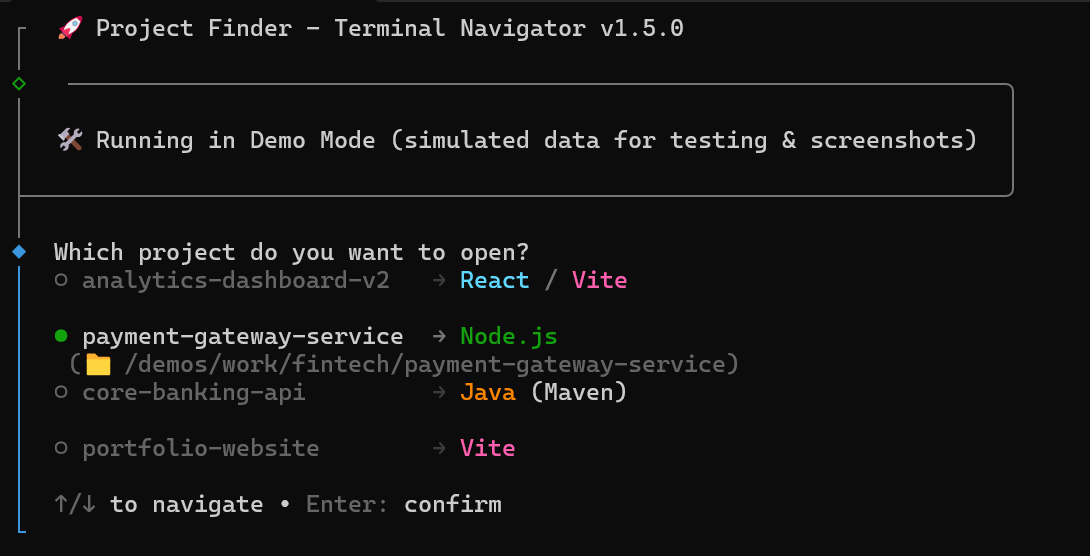
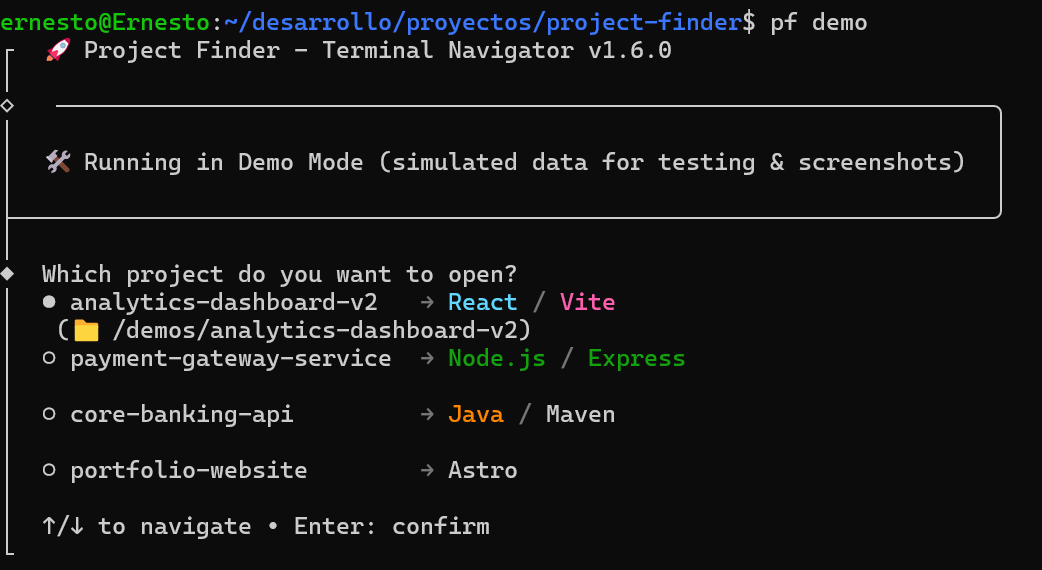
feat(shell): implement cross-platform navigation wrappers & I/O stream proxy (#5)
* chore(release): bump version to 1.6.0 and refactor package metadata

- Bump package version from 1.4.0 to 1.6.0.
- Rename primary binary executable to 'pf-cli' to avoid wrapper collisions.
- Remove redundant self-referencing dependency in package.json.
- Include 'bin' directory in distribution files array.

* refactor(ui): isolate I/O streams using stdout redirection proxy

- Create redirectUiToStderr and emitData helpers in src/ui/output.js to decouple visual rendering from stdout.
- Monkey-patch process.stdout.write at main entry point to divert interactive prompt graphics to stderr.
- Ensure raw project paths are emitted strictly via unpolluted stdout stream for parent shell capture.
- Export I/O stream utilities from src/ui/index.js barrel file.

* feat(shell): implement cross-platform wrappers and dynamic script generator

- Create getShellWrapperScript in src/utils/shell.js to dynamically resolve binary execution.
- Export getShellWrapperScript utility from src/utils/index.js barrel file.
- Add static executable wrappers bin/pf.sh and bin/pf.ps1 for Bash/WSL/GitBash and PowerShell environments.
- Establish baseline architecture for shell-level directory navigation.

* feat(cli): add 'init' subcommand and streamline post-selection UX

- Implement 'init' subcommand handling in src/index.js to emit shell wrappers directly to stdout.
- Activate redirectUiToStderr to guarantee unpolluted data stream execution.
[…]

Changed region(s): [[0.0, 0.0, 1.0, 0.9784], [0.3992, 0.795, 0.4914, 0.8561]]

diff --git a/src/index.js b/src/index.js
@@ -5,9 +5,10 @@
  * @description Terminal tool to scan, identify, and copy navigation commands for projects.
  * @author ErnestoIngles
  */
-import { getAppVersion, copyToClipboard } from './utils/index.js';
+import { getAppVersion, copyToClipboard, getShellWrapperScript } from './utils/index.js';
 import { scanProjects, MOCK_PROJECTS } from './core/index.js';
-import { renderHeader, promptProjectSelection, renderSuccessMessage } from './ui/index.js';
+import { renderHeader, promptProjectSelection, renderSuccessMessage, 
+  redirectUiToStderr, emitData } from './ui/index.js';
 
 /**
  * Main execution flow of the CLI tool.
@@ -17,10 +18,21 @@ async function main() {
   const version = getAppVersion();
   const isDemo = process.argv.includes('demo') || process.argv.includes('--demo');
 
+  const args = process.argv.slice(2);
+
+  if (args[0] === 'init') {
+    const shellType = args[1] || 'bash';
+    const script = getShellWrapperScript(shellType);
+    
+    process.stdout.write(script);
+    process.exit(0);
+  }
+
+  redirectUiToStderr();
+
   renderHeader(version, isDemo);
 
   const projects = isDemo ? MOCK_PROJECTS : await scanProjects();
-
   const selectedPath = await promptProjectSelection(projects);
 
   if (!selectedPath) {
@@ -31,6 +43,9 @@ async function main() {
   copyToClipboard(command);
 
   renderSuccessMessage(selectedPath);
+
+  emitData(selectedPath);
+  process.exit(0);
 }
 
 main().catch((err) => {

diff --git a/src/utils/shell.js b/src/utils/shell.js
@@ -1,0 +1,41 @@
+import fs from 'node:fs';
+import path from 'node:path';
+import { fileURLToPath } from 'node:url';
+
+/**
+ * Generates the dynamic wrapper script by reading the binary name from package.json.
+ * @param {'bash' | 'powershell'} shellType - Target shell type.
+ * @returns {string} The executable code for the shell.
+ */
+export function getShellWrapperScript(shellType = 'bash') {
+  try {
+    const __filename = fileURLToPath(import.meta.url);
+    const __dirname = path.dirname(__filename);
+    const packagePath = path.resolve(__dirname, '../../package.json');
+
+    const pkg = JSON.parse(fs.readFileSync(packagePath, 'utf-8'));
+    const binName = Object.keys(pkg.bin || {})[0] || 'pf-cli';
+
+    if (shellType === 'powershell') {
+      return `
+function pf {
+    $target_dir = & ${binName} @args
+    if ($target_dir -and (Test-Path -Path $target_dir)) {
+        Set-Location -Path $target_dir
+    }
+}`.trim();
+    }
+
+    // Bash / Zsh / GitBash / WSL (Subshell limpio)
+    return `
+pf() {
+  local target_dir
+  target_dir=$(${binName} "$@")
+  if [ -n "$target_dir" ] && [ -d "$target_dir" ]; then
+    cd "$target_dir"
+  fi
+}`.trim();
+  } catch (error) {
+    return '';
+  }
+}

diff --git a/src/ui/output.js b/src/ui/output.js
@@ -1,0 +1,30 @@
+/**
+ * @file ui/output.js
+ * @description Manages process I/O stream redirection to isolate CLI visual UI from raw data output.
+ */
+
+let originalStdoutWrite = null;
+
+/**
+ * Redirects default stdout to stderr so interactive UI libraries (like @clack/prompts)
+ * render directly to screen without polluting shell data streams.
+ */
+export function redirectUiToStderr() {
+  originalStdoutWrite = process.stdout.write.bind(process.stdout);
+
+  process.stdout.write = (chunk, encoding, callback) => {
+    return process.stderr.write(chunk, encoding, callback);
+  };
+}
+
+/**
+ * Emits raw data strictly to the real, unpolluted process stdout stream.
+ * @param {string} data - Raw data payload to return to shell wrapper.
+ */
+export function emitData(data) {
+  if (originalStdoutWrite) {
+    originalStdoutWrite(data);
+  } else {
+    process.stdout.write(data);
+  }
+}

diff --git a/src/ui/cli.js b/src/ui/cli.js
@@ -60,5 +60,4 @@ export async function promptProjectSelection(projects) {
 export function renderSuccessMessage(selectedPath) {
   const displayPath = selectedPath.replace(HOME, '~');
   p.outro(`✅ Command ${COLORS.cyan}cd "${displayPath}"${COLORS.reset} copied!`);
-  console.log(`\n  👉 Just press Ctrl+V (or Right Click) and Enter to navigate.\n`);
 }

diff --git a/src/ui/index.js b/src/ui/index.js
@@ -1,2 +1,3 @@
 export { renderHeader, promptProjectSelection, renderSuccessMessage } from './cli.js';
 export { colorizeType, COLORS } from './formatter.js';
+export { redirectUiToStderr, emitData } from './output.js';

diff --git a/src/utils/index.js b/src/utils/index.js
@@ -1,2 +1,3 @@
 export { copyToClipboard } from './clipboard.js';
 export { getAppVersion } from './version.js';
+export { getShellWrapperScript } from './shell.js';

diff --git a/README.md b/README.md
@@ -2,7 +2,7 @@
 
 **Project Finder** is an interactive terminal utility designed to streamline developer workflows. It automatically scans your local directories, identifies project technology stacks, and enables instant project navigation directly from your terminal.
 
-![Version](https://img.shields.io/badge/version-1.5.0-cyan)
+![Version](https://img.shields.io/badge/version-1.6.0-cyan)
 ![Node.js](https://img.shields.io/badge/Node.js-%3E%3D18.0.0-green)
 ![License](https://img.shields.io/badge/license-MIT-blue)
 
@@ -10,18 +10,17 @@
 
 ## ✨ Features
 
-- 🔍 **Recursive Workspace Scanning:** Intelligent depth-first search up to 3 levels deep (`MAX_SCAN_DEPTH = 3`) to discover nested projects in subdirectories (e.g., `~/desarrollo/proyectos/work/clients/app`).
-- ⚡ **Performance & Boundary Protection:** Short-circuits directory traversal upon detecting project root markers (`package.json`, `pom.xml`) and defensively skips system, build, and source architecture folders (`node_modules`, `dist`, `src`, `components`).
+- ⚡ **Instant Shell Navigation:** Perform native, shell-level directory switches (`cd`) directly within your active terminal session via the `pf` wrapper.
+- 🔍 **Automated Workspace Scanning:** Recursively identifies valid development projects in your workspace (`~/desarrollo/proyectos`).
 - 🎨 **Dynamic Tech Stack Formatting:** High-fidelity visual identifiers for **React**, **Vite**, **Angular**, **Java**, and **Node.js** with ANSI colors and formatted stack separators.
-- 🧪 **Built-in Demo Mode:** Run simulated nested-project sweeps without accessing local filesystem data—ideal for testing and visual previews.
-- 📋 **Seamless Clipboard Integration:** Copies the navigation command (`cd "/path/to/project"`) straight to your system clipboard.
-- 🌐 **Cross-Platform:** Designed for native environments including **Windows (GitBash / PowerShell)**, **WSL2**, and **Linux**.
+- 🧪 **Built-in Demo Mode:** Run simulated project sweeps without accessing local filesystem data—ideal for testing and visual previews.
+- 📋 **Clipboard Backup:** Silently copies the target `cd` command to your system clipboard as a fallback.
+- 🌐 **Cross-Platform:** Full shell integration support for **Windows (PowerShell)**, **Git Bash**, **WSL2**, and **Linux (Bash/Zsh)**.
 
 ---
-
 ## 🛠 Built With
 
-- **[Node.js](https://nodejs.org/):** Core runtime (ES Modules & Async `fs.promises`).
+- **[Node.js](https://nodejs.org/):** Core runtime (ES Modules).
 - **[@clack/prompts](https://www.npmjs.com/package/@clack/prompts):** Interactive CLI prompt framework.
 - **[clipboardy](https://www.npmjs.com/package/clipboardy):** Cross-platform OS clipboard access.
 
@@ -29,38 +28,66 @@
 
 ## 🏗 Architecture & Layered Design
 
-The project strictly follows a clean, decoupled architecture:
+The project strictly follows a clean, decoupled architecture with isolated I/O streams and shell wrappers:
 
-src/
-├── core/         # Business logic (Recursive directory scanner & mock data)
-├── ui/           # Presentation layer (Clack prompts & ANSI color formatting)
-├── utils/        # System I/O services (Clipboard management & versioning)
-└── index.js      # CLI Entrypoint & Orchestrator
+```text
+project-finder/
+├── bin/            # Executable shell wrappers (pf.sh & pf.ps1) for native terminal cd
+├── src/
+│   ├── core/       # Business logic (Directory scanner & mock data)
+│   ├── ui/         # Presentation layer (Clack prompts, formatting & I/O stream proxying)
+│   ├── utils/      # System utilities (Shell script generators, clipboard & metadata)
+│   └── index.js    # CLI Entrypoint, subcommand routing & stream orchestrator
+```
 
----
+--- 
 
 ## 🚀 Installation & Usage
 
 ### 1. Clone the repository
+```bash
 git clone https://github.com/ErnestoIngles/project-finder.git
 cd project-finder
+```
 
 ### 2. Install dependencies & link globally
+```bash
 # Install project dependencies
 pnpm install
 
 # Link CLI tool globally in your system
 pnpm add --global .
+```
 
-> **Note for Windows / GitBash users:** Make sure your `pnpm` global bin path is in your System `PATH` so `pf` can be executed from any directory.
+**Note for Windows / Git Bash users:** Make sure your pnpm global bin path (e.g., ~/.local/share/pnpm) is included in your system PATH variable so pf-cli can be executed from any directory.
 
-### 3. Run from anywhere!
+### 3. Enable Instant Navigation (pf command)
+Add the initialization line to your shell profile so the short pf command is available in every new terminal session:
 
-Simply type the command from any terminal location:
+#### 🐧 Bash / Zsh / WSL / Git Bash
+Add this line to your ~/.bashrc or ~/.zshrc:
+
+```bash
+eval "$(pf-cli init bash)"
+```
+(Then run source ~/.bashrc or restart your terminal).
+
+#### 🪟 Windows PowerShell
+Add this line to your PowerShell $PROFILE:
+```powershell
+Invoke-Expression (pf-cli init powershell)
+```
+
+### 4. 💻 Usage
+Once configured, simply type from any directory:
+```bash
 pf
+```
 
-Or run in **Demo Mode**:
+Or run in **Demo Mode** to test the UI with mock data:
+```bash
 pf demo
+```
 
 ---
 
@@ -70,12 +97,15 @@ pf demo
 
 ---
 
-## 💡 Engineering Decisions & Optimization
+## 🏗 Engineering Decisions
 
-- **Short-Circuit Recursion:** To prevent unnecessary depth traversal and ensure instant execution, the scanner stops exploring deeper subfolders as soon as a valid project root is identified.
-- **Defensive Sanitization & Filter Lists:** Directory names are normalized (`toLowerCase().trim()`) and matched against a comprehensive `IGNORED_DIRECTORIES` set covering build outputs, metadata, and internal project structure (e.g., `src`, `core`, `ui`, `node_modules`).
-- **Asynchronous I/O Execution:** Fully powered by `fs.promises` to maintain non-blocking execution throughout complex recursive directory sweeps.
-- **Directory Navigation Bypass:** Since a child process cannot change the parent shell's working directory in OS environments, a clipboard-based bridge was implemented to ensure instant, friction-free navigation.
+* **Native Directory Navigation (Shell Wrappers):** Since a child process in Node.js cannot mutate the current working directory of its parent shell process, we implemented lightweight shell wrappers (`pf.sh` / `pf.ps1`) injected via `pf-cli init`. The wrapper captures stdout data to execute native `cd` commands seamlessly.
+
+* **I/O Stream Isolation (Proxying):** To prevent interactive UI render engines (such as `@clack/prompts`) from polluting stdout during shell evaluation, visual components are dynamically intercepted and routed strictly to `process.stderr`. This keeps stdout clean for raw directory path transfers.
+
+* **Dynamic Tabular Padding:** The UI calculates the maximum string length across all discovered project names dynamically, ensuring a perfectly aligned layout regardless of directory naming conventions.
+
+* **Persistence Roadmap:** Future iterations will support a centralized `config.json` for custom workspace scan locations, deep nesting limits, and directory exclusion rules.
 
 ---
 
